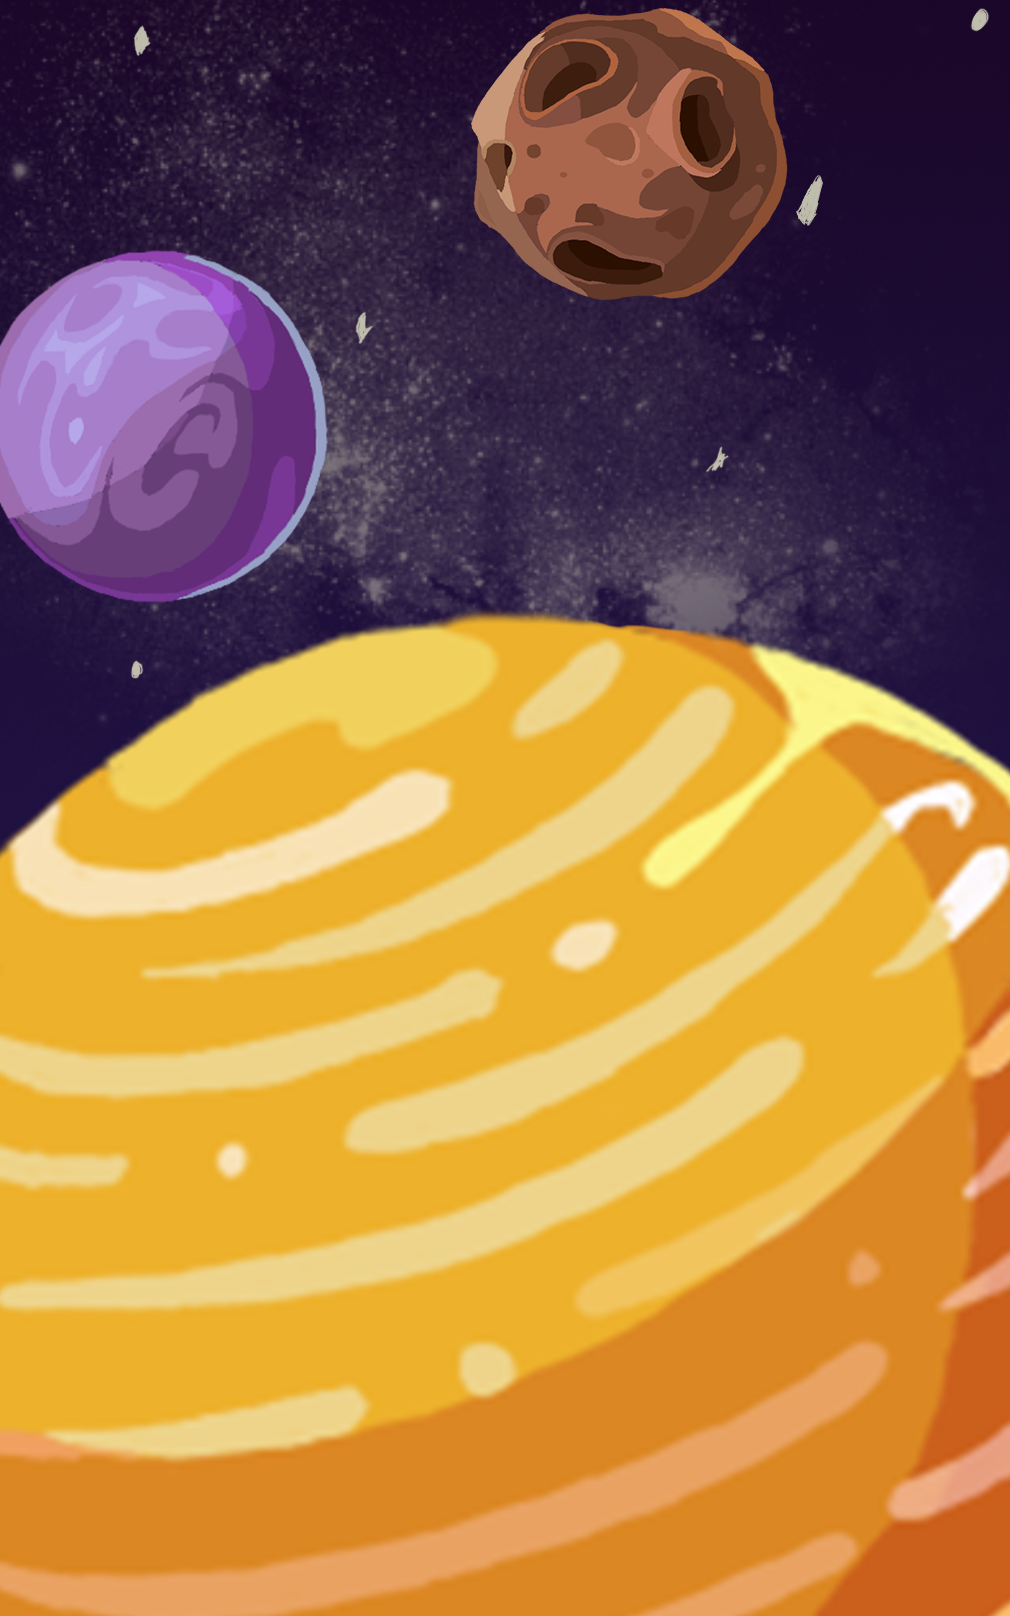
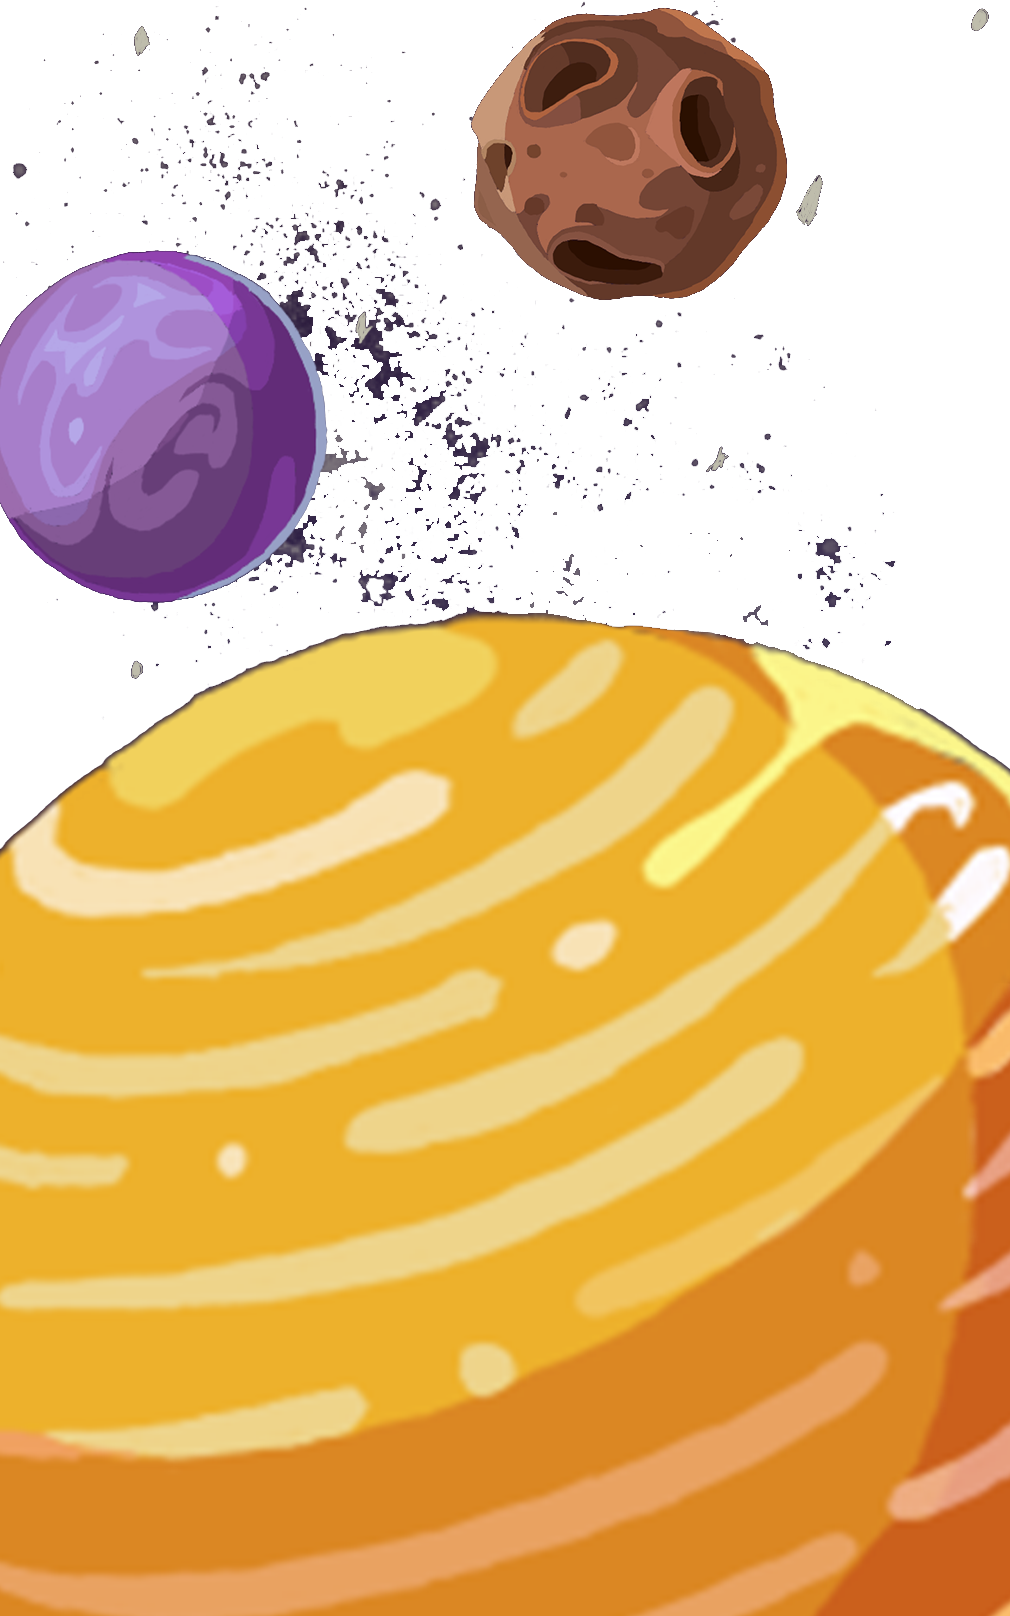
fix(design) : change images

diff --git a/src/style/base/_common.scss b/src/style/base/_common.scss
@@ -1,3 +1,5 @@
 body {
 	font-family: 'VT323-Regular', sans-serif;
+	background-image: url('/assets/img/outer-space/space-static.jpg');
+	background-size: 100%;
 }
